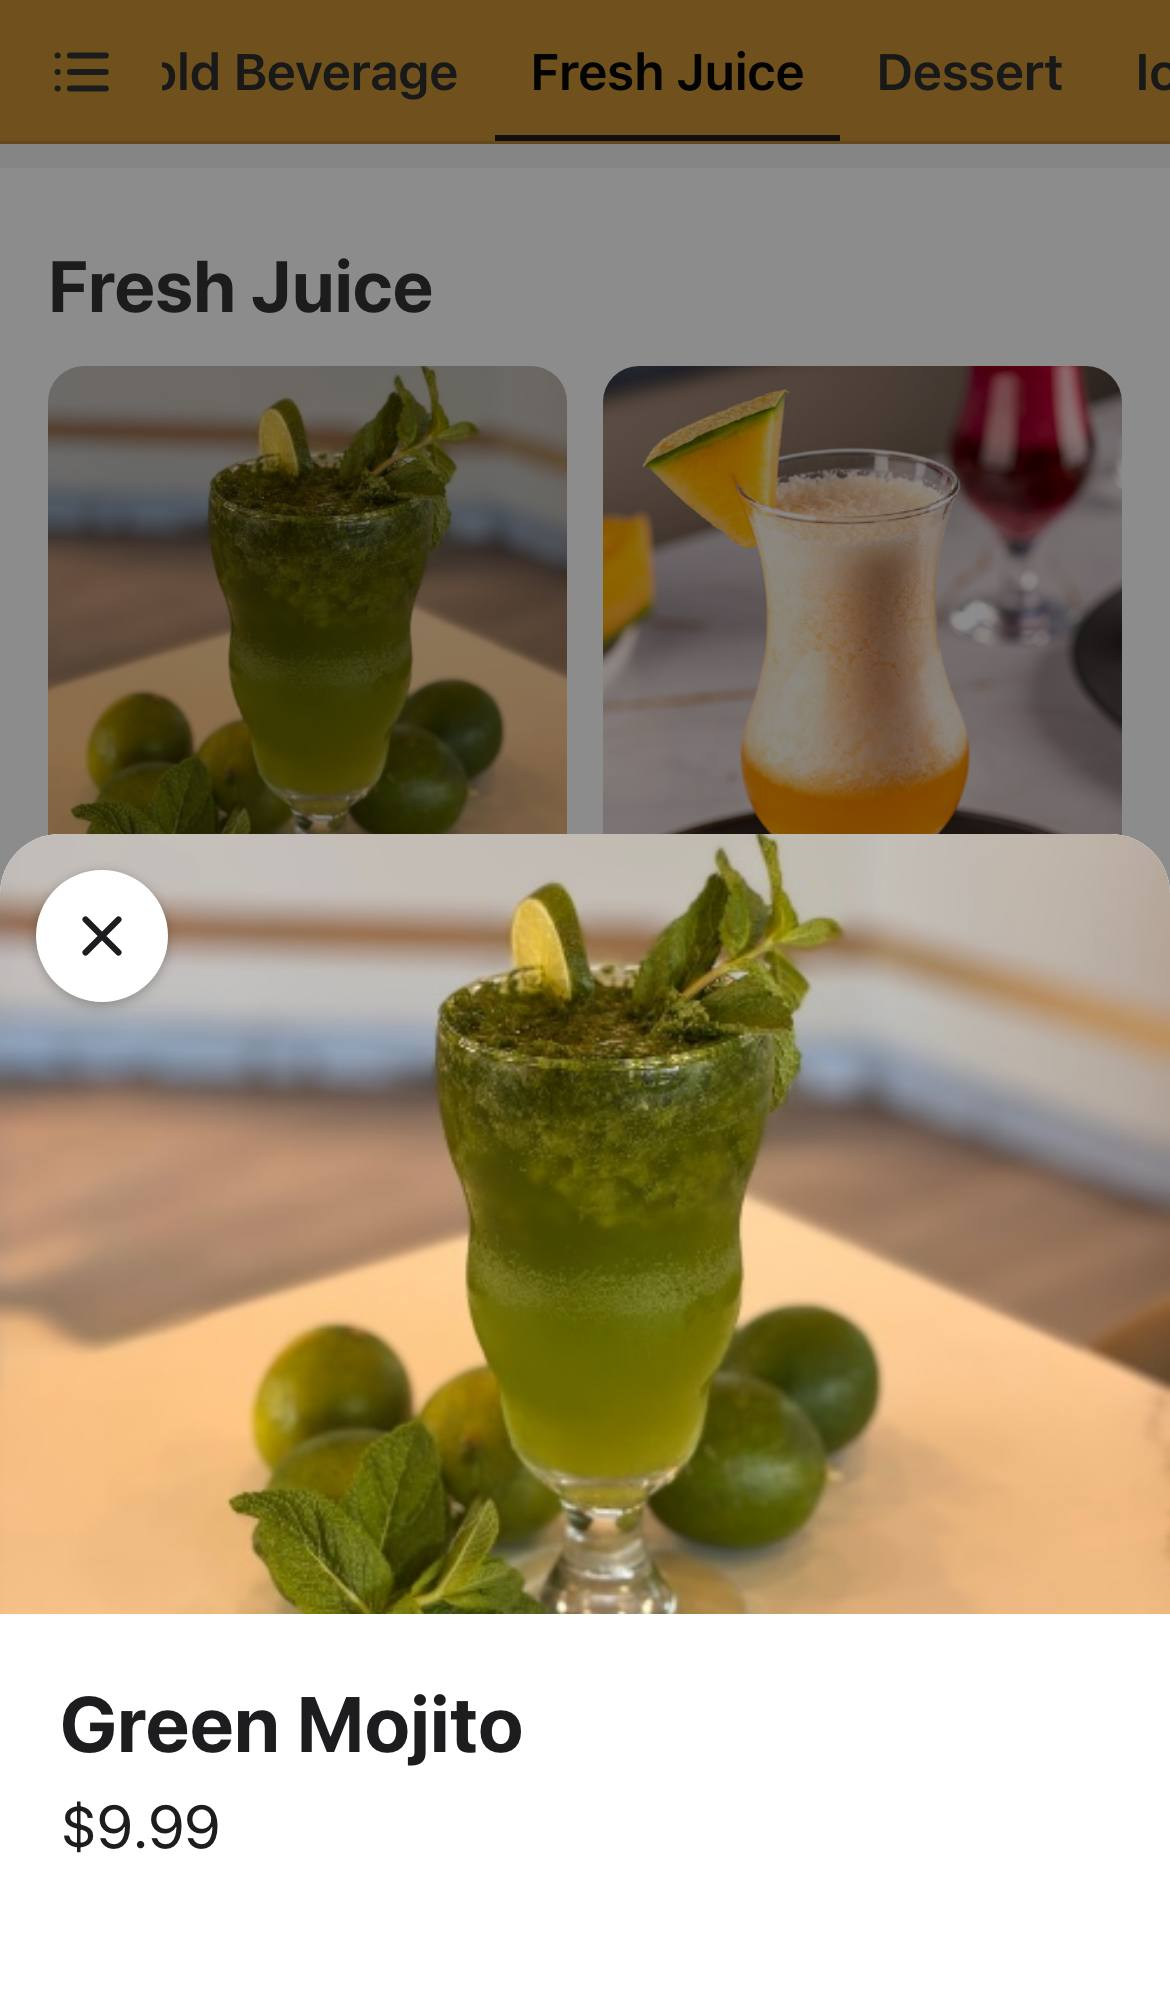
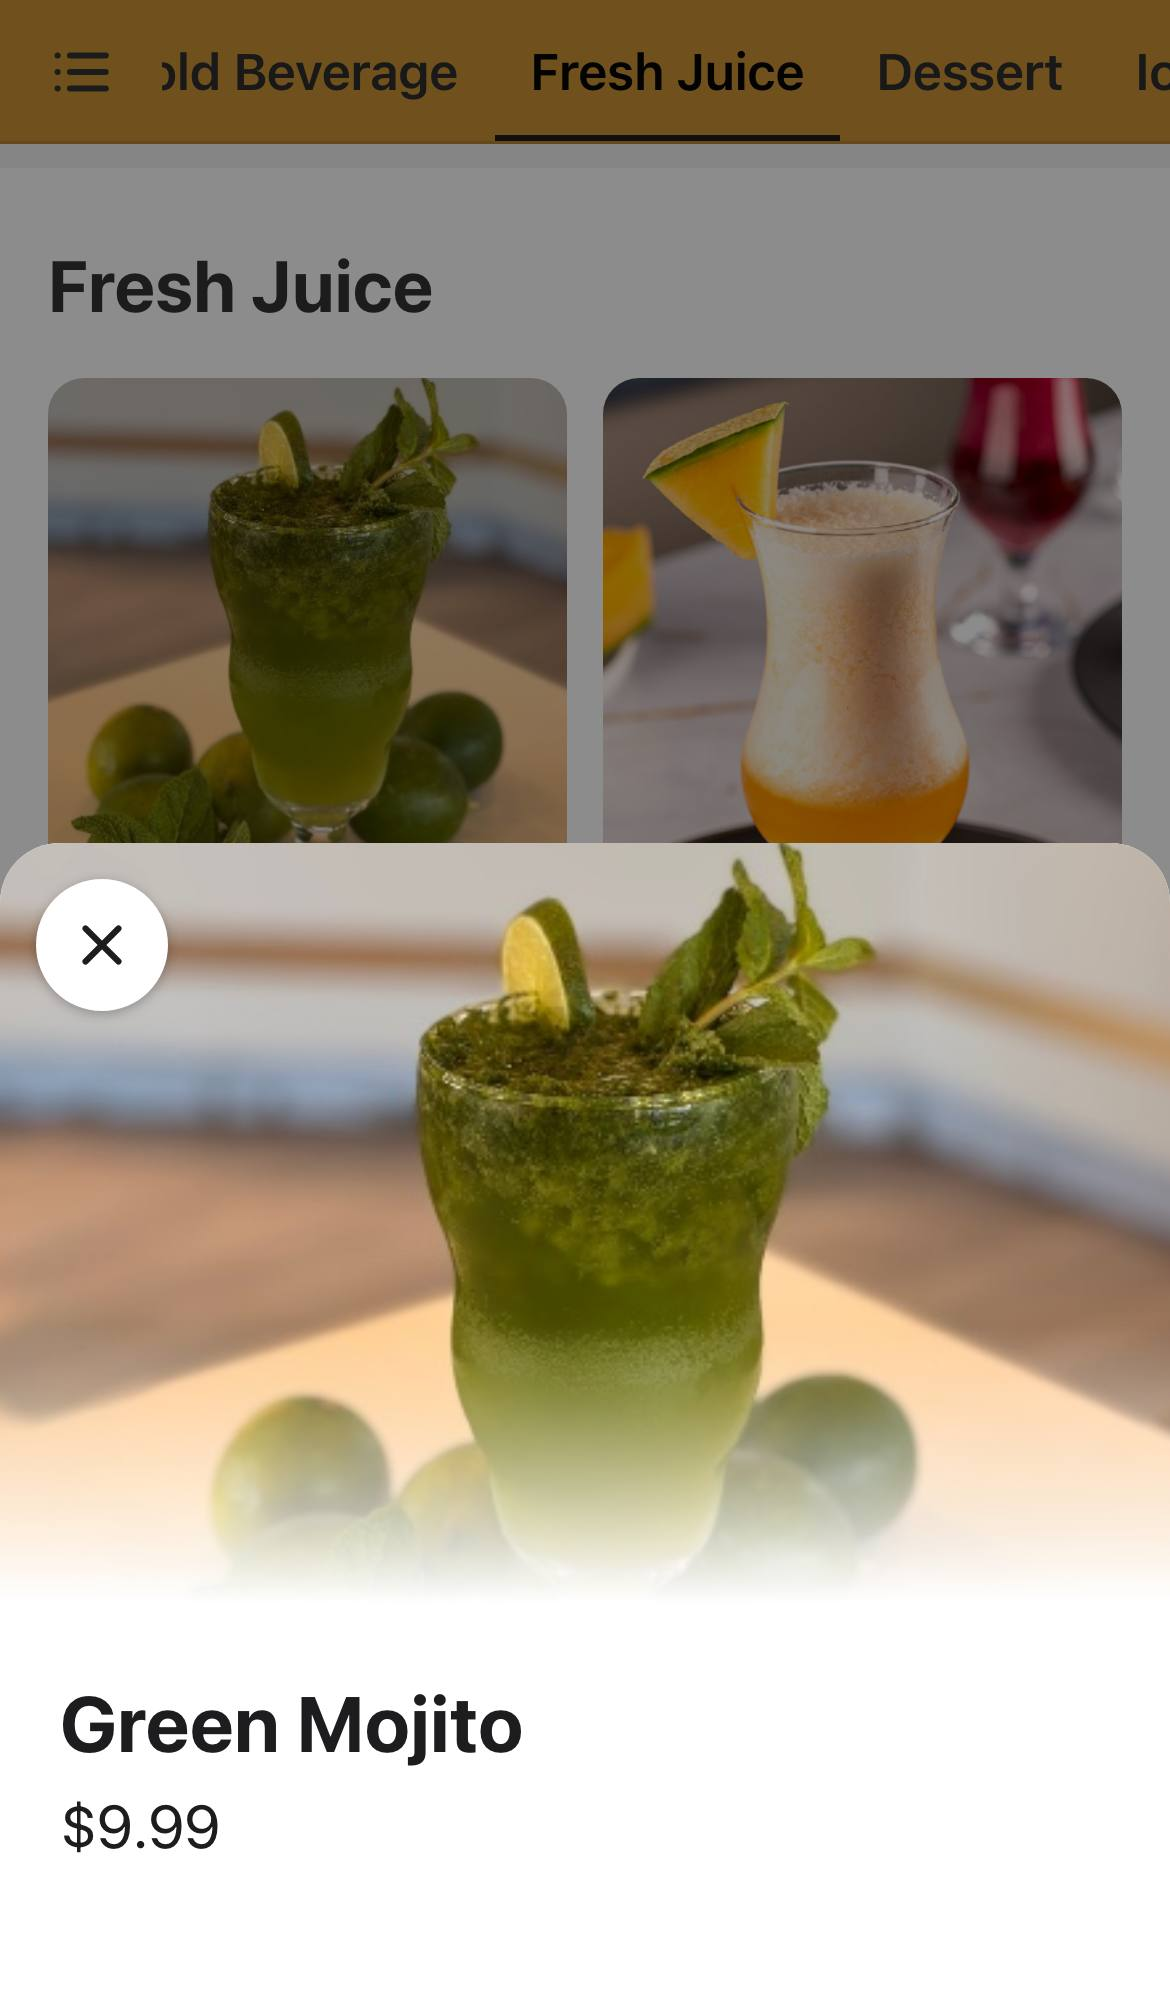
Grid sections: 16 px under the heading, 24 px between rows and 24 px above the band to the next section (Kian, 2026-10-08)
Cards have no padding of their own, unlike rows (16 px above and below), so the last row of cards touched the band. The grid list now carries the spacing (mt-4, gap-y-6, pb-6). Measured on the public page in reports/section-grid (capture.mjs now records the spacing).

diff --git a/src/components/menu-kit.tsx b/src/components/menu-kit.tsx
@@ -116,10 +116,12 @@ export function ItemCard({ item, eager, photos = true }: { item: Item; eager: bo
 
 // A section's items in the layout chosen for it in the admin: the list (rows) or the two-column grid (cards). `first`
 // marks the first section of the page: its first row (or its first two cards, side by side) load their photo eagerly.
+// The grid carries its own breathing room (Kian, 2026-10-08): rows bring 16 px of padding above and below themselves, cards
+// do not, so the grid starts 16 px under the heading and ends 24 px above the band to the next section.
 export function ItemList({ section: s, first, photos = true, className = '' }: { section: Section; first: boolean; photos?: boolean; className?: string }) {
   const grid = s.layout === 'grid';
   return (
-    <ul className={`mt-3 ${grid ? 'grid grid-cols-2 gap-x-3 gap-y-5' : ''} ${className}`.trim()} data-layout={grid ? 'grid' : 'list'}>
+    <ul className={`${grid ? 'mt-4 grid grid-cols-2 gap-x-3 gap-y-6 pb-6' : 'mt-3'} ${className}`.trim()} data-layout={grid ? 'grid' : 'list'}>
       {s.items.map((i, n) => (grid ? <ItemCard key={i.id} item={i} eager={first && n < 2} photos={photos} /> : <ItemRow key={i.id} item={i} eager={first && n < 1} photos={photos} />))}
     </ul>
   );

diff --git a/reports/section-grid/README.md b/reports/section-grid/README.md
@@ -8,6 +8,7 @@ Every section is shown to customers as a **List** (the full-width rows of 2026-1
 |---|---|
 | save | HTTP 200, section answers `layout: grid`, one change record; the public page carried the grid 6 ms later |
 | public HTML of the section | 8 cards (its 8 shown items), 0 rows, 8 popups (one `<template>` per card), 0 placeholders (every shown juice has a photo), **0 descriptions on the cards** (the one juice that has a description shows it in its popup only); the other sections keep their own layout (12 lists in this copy, which carries Kian's live choices); 4 inline script tags, 0 external scripts (no runtime JavaScript) |
+| spacing around the grid (Kian, 2026-10-08, later: the last cards sat too close to the band) | heading to the first card 16 px; last card's price to the band of the next section 24 px (cards have no padding of their own, so the grid carries it: `mt-4` above, `pb-6` below, 24 px between rows) |
 | grid on an iPhone 13 viewport (390 px) | `display: grid`, columns `173px 173px`, gap 12 px across and 20 px down; cards at x = 16 and 201, photos 173 × 173 (a list row's photo is 96 × 96; the second row of cards starts 248 px below the first now that cards carry no description) |
 | first four cards | Green Mojito $9.99 · Cantaloupe $9.49 · Orange $10.99 · Mango $9.99 |
 | popup from a card | opens with the title "Green Mojito" and the hero photo |
